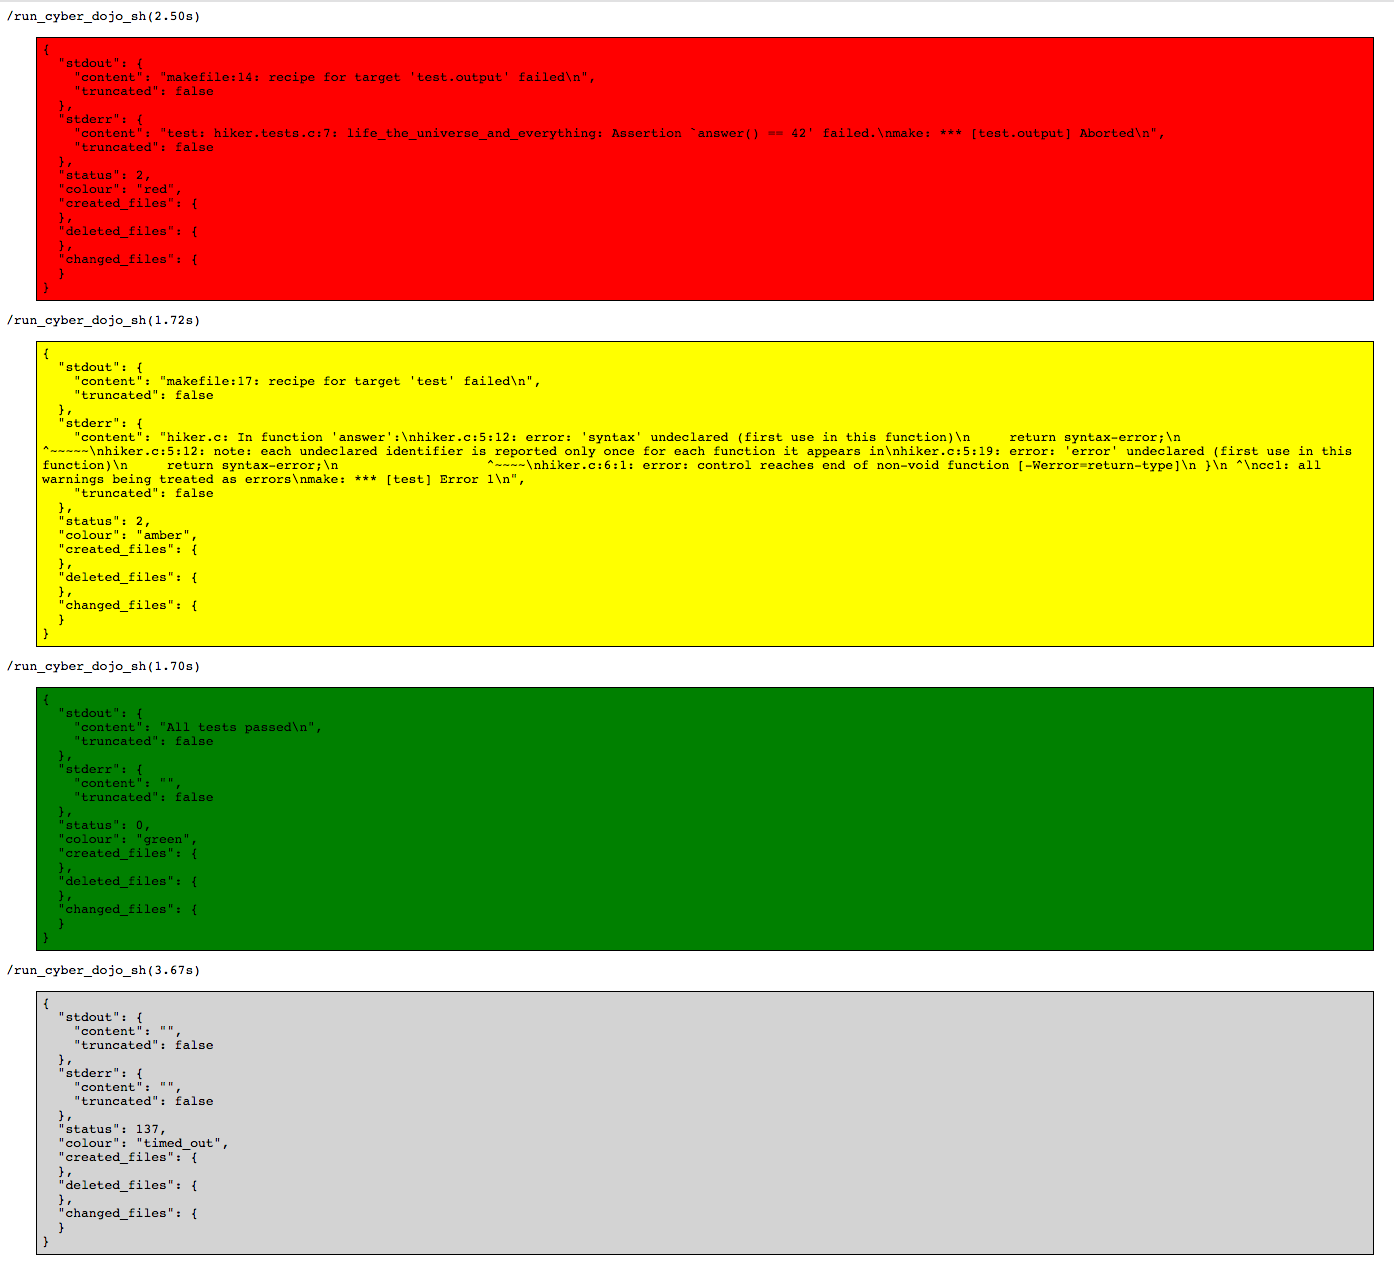
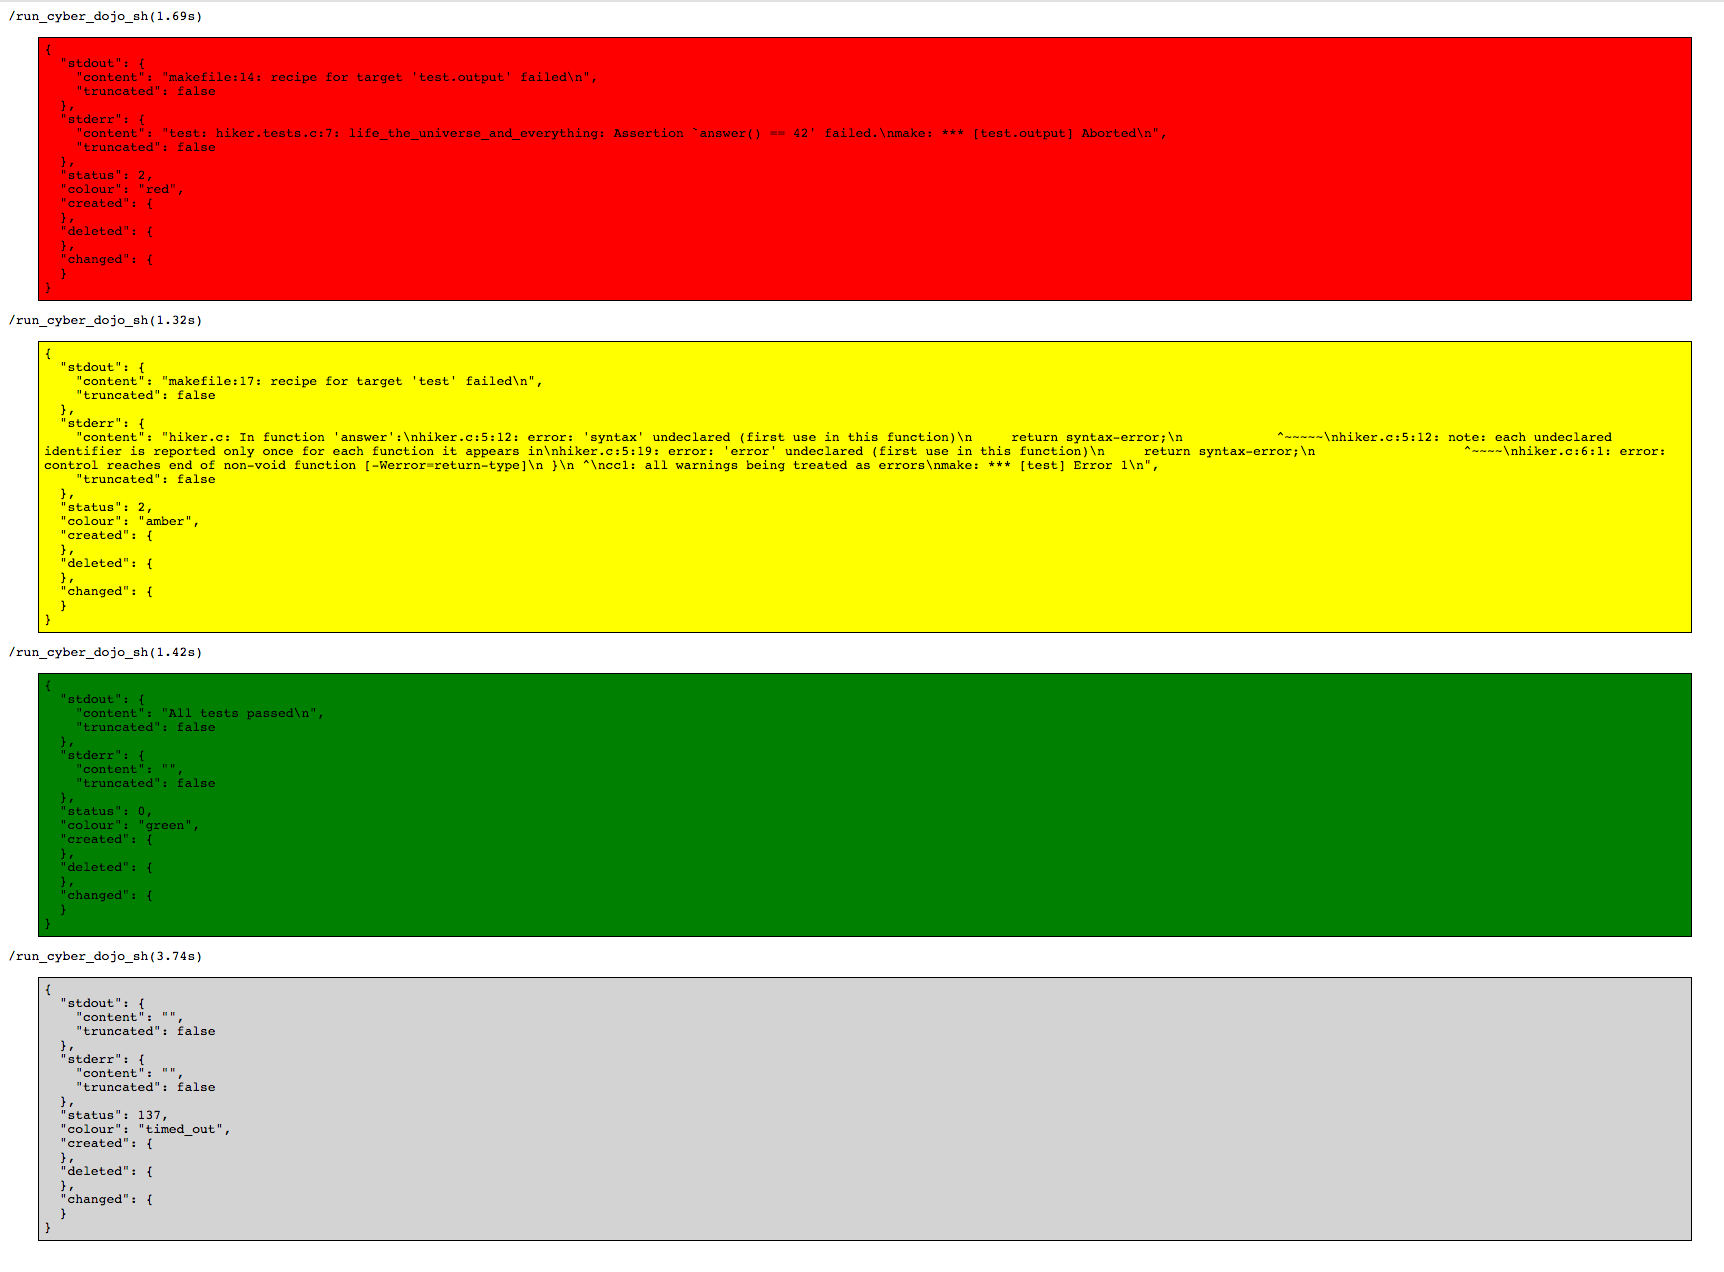
shorten property names of returned files

Changed region(s): [[0.0, 0.0, 0.9871, 1.0], [0.9562, 0.0307, 0.9871, 0.2453], [0.3393, 0.2759, 0.3702, 0.3066]]

diff --git a/test/src/feature_round_trip_test.rb b/test/src/feature_round_trip_test.rb
@@ -26,9 +26,9 @@ class RoundTripTest < TestBase
       assert_hash_equal({
         'newfile.txt' => file('xxx'),
         '.dotfile' => file('yyy')
-      }, created_files)
-      assert_equal({}, deleted_files)
-      assert_equal({}, changed_files)
+      }, created)
+      assert_equal({}, deleted)
+      assert_equal({}, changed)
     end
   end
 
@@ -47,9 +47,9 @@ class RoundTripTest < TestBase
     all_OSes.each do |os|
       set_OS(os)
       assert_cyber_dojo_sh(script)
-      assert_equal({ path => file(content) }, created_files)
-      assert_equal({}, deleted_files)
-      assert_equal({}, changed_files)
+      assert_equal({ path => file(content) }, created)
+      assert_equal({}, deleted)
+      assert_equal({}, changed)
     end
   end
 
@@ -61,9 +61,9 @@ class RoundTripTest < TestBase
       filename = src_file(os)
       script = "rm #{filename}"
       assert_cyber_dojo_sh(script)
-      assert_equal({}, created_files)
-      assert_equal [filename], deleted_files.keys
-      assert_equal({}, changed_files)
+      assert_equal({}, created)
+      assert_equal [filename], deleted.keys
+      assert_equal({}, changed)
     end
   end
 
@@ -76,9 +76,9 @@ class RoundTripTest < TestBase
       content = 'XXX'
       script = "echo -n '#{content}' > #{filename}"
       assert_cyber_dojo_sh(script)
-      assert_equal({}, created_files)
-      assert_equal({}, deleted_files)
-      assert_equal({filename => file(content)}, changed_files)
+      assert_equal({}, created)
+      assert_equal({}, deleted)
+      assert_equal({filename => file(content)}, changed)
     end
   end
 
@@ -93,9 +93,9 @@ class RoundTripTest < TestBase
       filename = 'empty.txt'
       script = "touch #{filename}"
       assert_cyber_dojo_sh(script)
-      assert_equal({filename => file('')}, created_files)
-      assert_equal({}, deleted_files)
-      assert_equal({}, changed_files)
+      assert_equal({filename => file('')}, created)
+      assert_equal({}, deleted)
+      assert_equal({}, changed)
     end
   end
 
@@ -111,9 +111,9 @@ class RoundTripTest < TestBase
       ch = 'x'
       script = "echo -n '#{ch}' > #{filename}"
       assert_cyber_dojo_sh(script)
-      assert_equal({filename => file(ch)}, created_files)
-      assert_equal({}, deleted_files)
-      assert_equal({}, changed_files)
+      assert_equal({filename => file(ch)}, created)
+      assert_equal({}, deleted)
+      assert_equal({}, changed)
     end
   end
 
@@ -129,9 +129,9 @@ class RoundTripTest < TestBase
         run_cyber_dojo_sh
       }
       assert stub.fired?
-      assert_equal({}, created_files)
-      assert_equal({}, deleted_files)
-      assert_equal({}, changed_files)
+      assert_equal({}, created)
+      assert_equal({}, deleted)
+      assert_equal({}, changed)
     end
   end
 

diff --git a/client/test/src/round_trip_test.rb b/client/test/src/round_trip_test.rb
@@ -14,9 +14,9 @@ class RoundTripTest < TestBase
     # not generated any text files. In contrast, Alpine is
     # CSharp-NUnit which does generate an .xml text file.
     run_cyber_dojo_sh
-    assert_equal({}, created_files)
-    assert_equal({}, deleted_files)
-    assert_equal({}, changed_files)
+    assert_equal({}, created)
+    assert_equal({}, deleted)
+    assert_equal({}, changed)
   end
 
   # - - - - - - - - - - - - - - - - -
@@ -30,9 +30,9 @@ class RoundTripTest < TestBase
       'echo -n "xxx" > newfile.txt',
     ].join("\n"))
     assert stdout.include?('test: binary') # file --mime-encoding
-    assert_equal({ 'newfile.txt' => file('xxx') }, created_files)
-    assert_equal({}, deleted_files)
-    assert_equal({}, changed_files)
+    assert_equal({ 'newfile.txt' => file('xxx') }, created)
+    assert_equal({}, deleted)
+    assert_equal({}, changed)
   end
 
   # - - - - - - - - - - - - - - - - -
@@ -40,9 +40,9 @@ class RoundTripTest < TestBase
   test '162',
   %w( created text files in sub-dirs are returned in json payload ) do
     exec('mkdir sub && echo -n "yyy" > sub/newfile.txt')
-    assert_equal({ 'sub/newfile.txt' => file('yyy') }, created_files)
-    assert_equal({}, deleted_files)
-    assert_equal({}, changed_files)
+    assert_equal({ 'sub/newfile.txt' => file('yyy') }, created)
+    assert_equal({}, deleted)
+    assert_equal({}, changed)
   end
 
   # - - - - - - - - - - - - - - - - -
@@ -50,9 +50,9 @@ class RoundTripTest < TestBase
   test '163',
   %w( [C,assert] changed text files are returned in json payload ) do
     exec('echo -n "jjj" > hiker.h')
-    assert_equal({}, created_files)
-    assert_equal({}, deleted_files)
-    assert_equal({ 'hiker.h' => file('jjj')}, changed_files)
+    assert_equal({}, created)
+    assert_equal({}, deleted)
+    assert_equal({ 'hiker.h' => file('jjj')}, changed)
   end
 
   # - - - - - - - - - - - - - - - - -
@@ -60,9 +60,9 @@ class RoundTripTest < TestBase
   test '164',
   %w( [C,assert] created empyty text files is returned in json payload ) do
     exec('touch empty.file')
-    assert_equal({ 'empty.file' => file('')}, created_files)
-    assert_equal({}, deleted_files)
-    assert_equal({}, changed_files)
+    assert_equal({ 'empty.file' => file('')}, created)
+    assert_equal({}, deleted)
+    assert_equal({}, changed)
   end
 
   # - - - - - - - - - - - - - - - - -

diff --git a/test/src/file_delta_test.rb b/test/src/file_delta_test.rb
@@ -15,9 +15,9 @@ class FileDeltaTest < TestBase
     was_files = { 'wibble.txt' => file('hello') }
     now_files = { 'wibble.txt' => file('hello') }
     file_delta(was_files, now_files)
-    assert_equal({}, @created_files)
-    assert_equal({}, @deleted_files)
-    assert_equal({}, @changed_files)
+    assert_equal({}, @created)
+    assert_equal({}, @deleted)
+    assert_equal({}, @changed)
   end
 
   # - - - - - - - - - - - - - - - - -
@@ -26,9 +26,9 @@ class FileDeltaTest < TestBase
     was_files = { 'wibble.txt' => file('hello') }
     now_files = { 'wibble.txt' => file('hello, world') }
     file_delta(was_files, now_files)
-    assert_equal({}, @created_files)
-    assert_equal({}, @deleted_files)
-    assert_equal({'wibble.txt' => file('hello, world')}, @changed_files)
+    assert_equal({}, @created)
+    assert_equal({}, @deleted)
+    assert_equal({'wibble.txt' => file('hello, world')}, @changed)
   end
 
   # - - - - - - - - - - - - - - - - -
@@ -37,9 +37,9 @@ class FileDeltaTest < TestBase
     was_files = { 'wibble.txt' => file('hello') }
     now_files = {}
     file_delta(was_files, now_files)
-    assert_equal({}, @created_files)
-    assert_equal({'wibble.txt' => file('hello')}, @deleted_files)
-    assert_equal({}, @changed_files)
+    assert_equal({}, @created)
+    assert_equal({'wibble.txt' => file('hello')}, @deleted)
+    assert_equal({}, @changed)
   end
 
   # - - - - - - - - - - - - - - - - -
@@ -48,9 +48,9 @@ class FileDeltaTest < TestBase
     was_files = {}
     now_files = { 'wibble.txt' => file('hello') }
     file_delta(was_files, now_files)
-    assert_equal({'wibble.txt' => file('hello')}, @created_files)
-    assert_equal({}, @deleted_files)
-    assert_equal({}, @changed_files)
+    assert_equal({'wibble.txt' => file('hello')}, @created)
+    assert_equal({}, @deleted)
+    assert_equal({}, @changed)
   end
 
   # - - - - - - - - - - - - - - - - -
@@ -59,9 +59,9 @@ class FileDeltaTest < TestBase
     was_files = {}
     now_files = { 'empty.file' => file('') }
     file_delta(was_files, now_files)
-    assert_equal({'empty.file' => file('')}, @created_files)
-    assert_equal({}, @deleted_files)
-    assert_equal({}, @changed_files)
+    assert_equal({'empty.file' => file('')}, @created)
+    assert_equal({}, @deleted)
+    assert_equal({}, @changed)
   end
 
 end

diff --git a/src/runner.rb b/src/runner.rb
@@ -39,13 +39,13 @@ class Runner
       }
     end
     {
-             stdout: @stdout,
-             stderr: @stderr,
-             status: @status,
-             colour: @colour,
-      created_files: @created_files,
-      deleted_files: @deleted_files,
-      changed_files: @changed_files
+       stdout: @stdout,
+       stderr: @stderr,
+       status: @status,
+       colour: @colour,
+      created: @created,
+      deleted: @deleted,
+      changed: @changed
     }
   end
 
@@ -346,9 +346,9 @@ class Runner
 
   def set_file_delta(was_files, now_files)
     if now_files == {} || @timed_out
-      @created_files = {}
-      @deleted_files = {}
-      @changed_files = {}
+      @created = {}
+      @deleted = {}
+      @changed = {}
     else
       file_delta(was_files, now_files)
     end

diff --git a/test/src/feature_large_file_truncation_test.rb b/test/src/feature_large_file_truncation_test.rb
@@ -17,9 +17,9 @@ class LargeFileTruncationTest < TestBase
       assert_cyber_dojo_sh(script)
       expected = "#{s}\n" * 1024
 
-      assert_equal({ 'large_file.txt' => file(expected,true) }, created_files)
-      assert_equal({}, deleted_files)
-      assert_equal({}, changed_files)
+      assert_equal({ 'large_file.txt' => file(expected,true) }, created)
+      assert_equal({}, deleted)
+      assert_equal({}, changed)
     end
   end
 
@@ -36,7 +36,7 @@ class LargeFileTruncationTest < TestBase
         filename => file(src + large_comment)
       }
     })
-    refute changed_files.keys.include?(filename)
+    refute changed.keys.include?(filename)
   end
 
 end

diff --git a/src/file_delta.rb b/src/file_delta.rb
@@ -2,17 +2,17 @@
 module FileDelta
 
   def file_delta(was, now)
-    @changed_files = {}
-    @deleted_files = {}
+    @changed = {}
+    @deleted = {}
     was.each do |filename, file|
       if !now.has_key?(filename)
-        @deleted_files[filename] = file
+        @deleted[filename] = file
       elsif now[filename]['content'] != file['content']
-        @changed_files[filename] = now[filename]
+        @changed[filename] = now[filename]
       end
       now.delete(filename) # destructive
     end
-    @created_files = now
+    @created = now
   end
 
 end

diff --git a/client/test/src/test_base.rb b/client/test/src/test_base.rb
@@ -65,16 +65,16 @@ class TestBase < HexMiniTest
     result['colour']
   end
 
-  def created_files
-    result['created_files']
+  def created
+    result['created']
   end
 
-  def deleted_files
-    result['deleted_files']
+  def deleted
+    result['deleted']
   end
 
-  def changed_files
-    result['changed_files']
+  def changed
+    result['changed']
   end
 
   # - - - - - - - - - - - - - - - - - - - - - - - - - -

diff --git a/test/src/test_base.rb b/test/src/test_base.rb
@@ -83,15 +83,15 @@ class TestBase < HexMiniTest
     result[__method__]
   end
 
-  def created_files
+  def created
     result[__method__]
   end
 
-  def deleted_files
+  def deleted
     result[__method__]
   end
 
-  def changed_files
+  def changed
     result[__method__]
   end
 

diff --git a/docs/README.md b/docs/README.md
@@ -38,17 +38,17 @@ cyber-dojo.sh
 ```
   {        "image_name": "cyberdojofoundation/gcc_assert",
                    "id": "15B9zD",
+          "max_seconds": 10,
                 "files": { "cyber-dojo.sh" => "make",
                            "fizz_buzz.c" => "#include...",
                            "fizz_buzz.h" => "#ifndef FIZZ_BUZZ_INCLUDED...",
                            ...
-                         },
-          "max_seconds": 10
+                         }
   }
 ```
 - returns [stdout, stderr, status, colour] as the results of
 executing cyber-dojo.sh
-- returns [created_files, deleted_files, changed_files] which are text files
+- returns [created, deleted, changed] which are text files
 altered by executing cyber-dojo.sh
 - if the execution completed in max_seconds, colour will be "red", "amber", or "green".
 - if the execution did not complete in max_seconds, colour will be "timed_out".
@@ -64,11 +64,11 @@ eg
           "content" => "invalid suffix sss on integer constant",
           "truncated" => false
         },
-        "status": 2,
-        "colour": "amber",
-        "created_files":{ ... },
-        "deleted_files":{},
-        "changed_files":{ ... }
+         "status": 2,
+         "colour": "amber",
+        "created": { ... },
+        "deleted": {},
+        "changed": { ... }
       }
     }
 ```
@@ -83,11 +83,11 @@ eg
           "content" => "",
           "truncated" => false
         },
-        "status": 137,
-        "colour:"timed_out",
-        "created_files":{},
-        "deleted_files":{},
-        "changed_files":{}
+         "status": 137,
+          "colour: "timed_out",
+        "created": {},
+        "deleted": {},
+        "changed": {}
       }
     }
 ```
